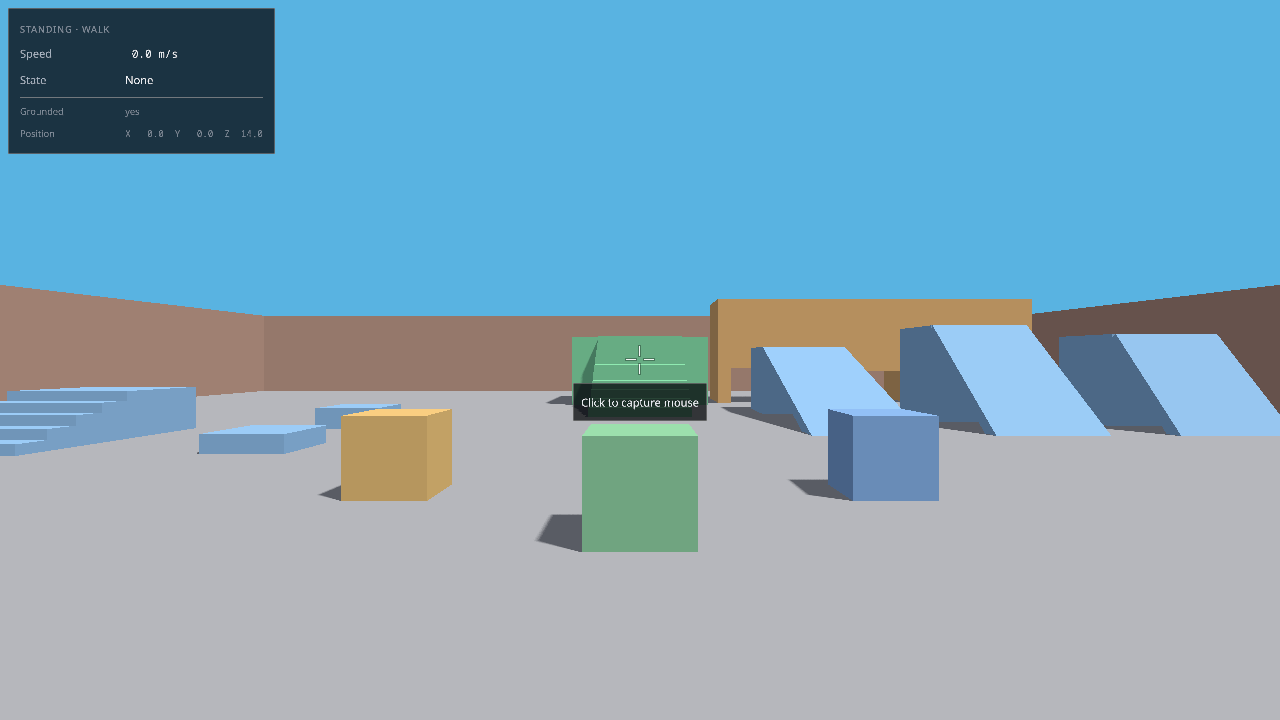
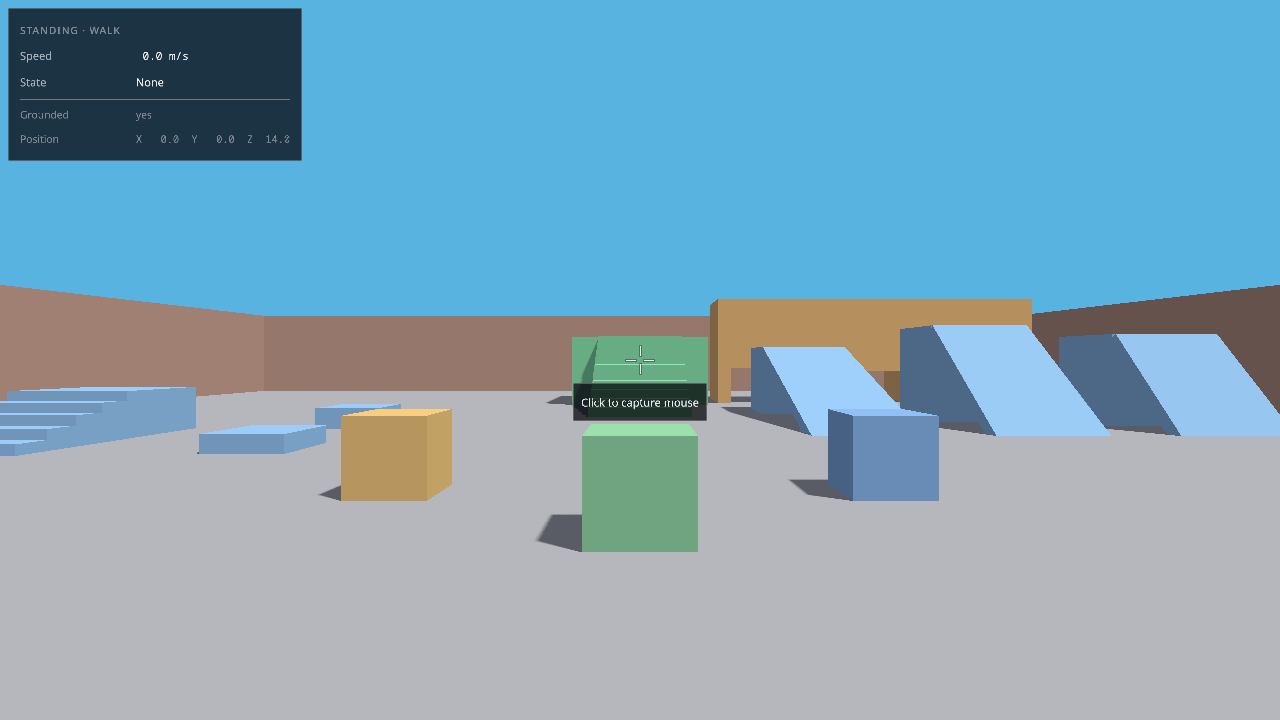
fix(ui): align dividers, raise the caption, and pin the layout with tests
Review found four real faults.

The row divider started one gutter inside the panel and ran one gutter past the
inner right edge, so it did not line up with the title rule or the selection
band. Rows now share one frame rectangle, and a geometry test reads the emitted
quads and fails if a divider or the band leaves it.

The caption at 12.5 px could not resolve a lowercase l: the stem was one pixel
wide with more space around it than its own width, so words read with a gap. The
caption is 14 px, and the guide states the floor and the reason.

The review also caught a dead Rows_Options field, magic numbers in the position
formatter, a crosshair that did not snap to device pixels, a panel that could
draw off the top of a small offscreen target, and a misleading ADR sentence
about where stb_truetype.a comes from.

The column test asserted against its own measurement, so it could not fail.
Replaced with three that read geometry: the divider and band frame, the hint
clearing the crosshair, and a five-point sweep of the status panel width. The
tautological value-column assertions are gone.

Refs #98
Refs #99
Refs #100

Changed region(s): [[0.0, 0.0, 0.25, 0.2444], [0.0, 0.0306, 0.0938, 0.1222], [0.0938, 0.0611, 0.1562, 0.1222]]

diff --git a/docs/ui/spacing.md b/docs/ui/spacing.md
@@ -12,8 +12,8 @@ Values are pixels at density 1 and multiply by density. Tokens are in
 | --- | --- | --- | --- |
 | `spacing.xxs` | 2 | 3 | band padding above and below a selected row |
 | `spacing.xs` | 4 | 6 | gap between rows in a group, key to action |
-| `spacing.sm` | 6 | 9 | panel padding on the status panel, legend row pitch |
-| `spacing.md` | 8 | 12 | status panel margin, capture hint padding, gap above a divider |
+| `spacing.sm` | 6 | 9 | gap above a divider, column gap inside a row group |
+| `spacing.md` | 8 | 12 | status panel margin, capture hint padding, gap above a section header |
 | `spacing.lg` | 12 | 18 | status panel padding, gap above a section header, note gap |
 | `spacing.xl` | 16 | 24 | settings panel padding, label-to-value gutter, legend column gap |
 | `spacing.xxl` | 24 | 36 | reserved for a future full-bleed split |
@@ -61,7 +61,12 @@ Rules that follow from the drawing:
 - The label column is the widest label plus `spacing.xl`. It is measured, never
   guessed, and it never shrinks below the widest row.
 - One gap, one owner: the row layout adds the gap above a row, so no row carries
-  its own margin and the last row leaves no trailing gap.
+  its own margin and the last row leaves no trailing gap. A row gets `spacing.xs`
+  above it, a `Setting` or `Action` row `spacing.sm`, a divider `spacing.sm`, and a
+  section header `spacing.lg`.
+- A divider and the selection band both span `frame_x .. frame_x + frame_width`,
+  the panel's inner rectangle. They share one edge with each other. The legend
+  grid has its own pitch: caption line height plus `spacing.xxs`.
 - The status panel uses the same row layout with `value_align = .Left`, because a
   readout reads label-then-value, while a settings list reads label-then-edge.
 
@@ -85,6 +90,7 @@ No shadow, no gradient, no radius token. `docs/ui/README.md` explains why.
 - No `width: auto` equivalent: every panel width traces to a measured row plus
   padding.
 - No nested panels. A row is not a card.
-- No clipping. The settings panel is 397 px tall at 720p; the smallest supported
-  window is 800x600, so it always fits. A new surface must say what happens when
-  it does not.
+- No clipping. The settings panel is 446 px tall and 422 px wide at 720p; the
+  smallest supported window is 800x600, so it always fits. The panel still clamps
+  its top to `spacing.md`, so an offscreen target of any size keeps the header on
+  screen. A new surface must say what happens when it does not fit.

diff --git a/docs/ui/type.md b/docs/ui/type.md
@@ -18,8 +18,8 @@ Sizes are pixels at density 1 and multiply by density. Tokens are in
 | Panel title | `type_title` | 21 | 1.25 | Medium | -0.01 em |
 | Body | `type_body` | 15 | 1.5 | Regular | 0 |
 | Label | `type_body_strong` | 15 | 1.5 | Medium | 0 |
-| Detail | `type_caption` | 12.5 | 1.45 | Regular | 0 |
-| Section header | `type_caption_caps` | 12.5 | 1.45 | Medium | +0.06 em |
+| Detail | `type_caption` | 14 | 1.45 | Regular | 0 |
+| Section header | `type_caption_caps` | 14 | 1.45 | Medium | +0.06 em |
 
 Never add a size outside this table. If a surface needs one, add a token, a
 rationale, and a line here.
@@ -31,7 +31,7 @@ boolean instead of every literal.
 ## Leading and tracking
 
 Leading is unitless in the source and baked into `line_height` in pixels. Display
-sizes tighten, body sizes relax: 1.25 at 21 px, 1.5 at 15 px, 1.45 at 12.5 px.
+sizes tighten, body sizes relax: 1.25 at 21 px, 1.5 at 15 px, 1.45 at 14 px.
 Tracking appears only on capitals, and only positive. Body text gets none.
 
 The baseline sits at
@@ -78,5 +78,7 @@ grow a character makes the whole panel jump as the player walks.
   here.
 - No weight change on interaction. There is no hover state in this UI, and a
   weight swap reflows the row.
-- No text under 12.5 px at density 1.
+- No text under 14 px at density 1. Below that a lowercase `l` is a single hairline
+  with more space around it than its own width, and the word reads with a gap in
+  it. That is a legibility floor, not a preference.
 - No truncation. A row that does not fit is a layout bug, not an ellipsis.

diff --git a/docs/adr/0006-sdf-text-for-the-2d-layer.md b/docs/adr/0006-sdf-text-for-the-2d-layer.md
@@ -45,12 +45,16 @@ in `hud.frag` with a `fwidth`-based threshold.
 
 ## Consequences
 
-- The game binary links `stb_truetype.a`, a 65 KB static archive, the same way it
-  already links `box3d`. No build-system change.
+- The Odin vendor tree ships `stb_truetype.a` (65 KB) inside the compiler
+  installation, and the binding links it with a relative `foreign import`. The
+  archive is not committed and the build system does not change.
 - Startup pays about 105 ms and 1 MB of texture memory.
 - The atlas has a maximum useful size. At density 2 the largest role draws at
   42 px, a 5% upscale from the 40 px field; a role larger than 21 px at density 1
   would soften. Raise `TEXT_ATLAS_BASE_PX` before adding one.
+- The smallest role is 14 px at density 1. Smaller text was tried and rejected:
+  a lowercase `l` became a hairline with more space around it than its own
+  width, so the word read with a gap in it.
 - `pyftsubset` is a development tool, not a build dependency. The subset files
   and their provenance are committed.
 - No future 2D layer may reintroduce a bitmap debug font. `docs/ui/type.md` is

diff --git a/GLOSSARY.md b/GLOSSARY.md
@@ -278,6 +278,11 @@ rasterized once at startup from the three subset Noto faces. One field draws
 crisply at every size, so no text is ever scaled from a bitmap.
 _Avoid_: Font texture, bitmap font, glyph sheet
 
+**Glyph**:
+One drawable letter in the SDF atlas: a uv rectangle, an offset from the pen, and
+an advance. The HUD never draws a character directly; it draws glyphs.
+_Avoid_: Character, letter
+
 **Row**:
 One line of the overlay: a kind, a label, a value, and whether the value is
 numeric. The game fills rows; the renderer lays them out. The kind set is closed:
